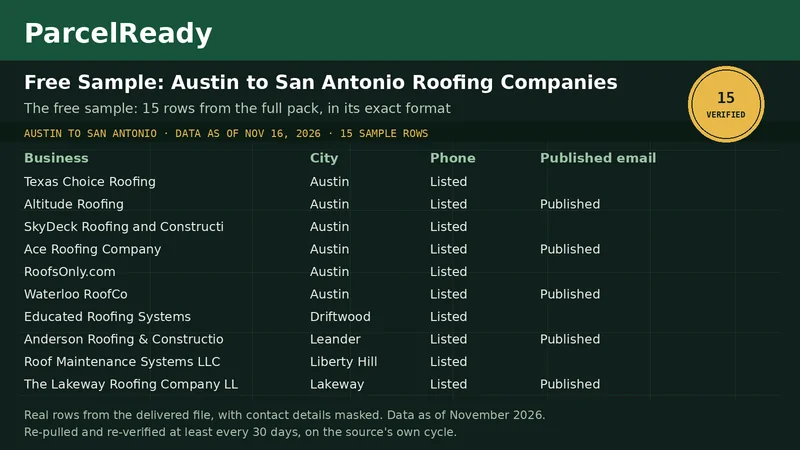
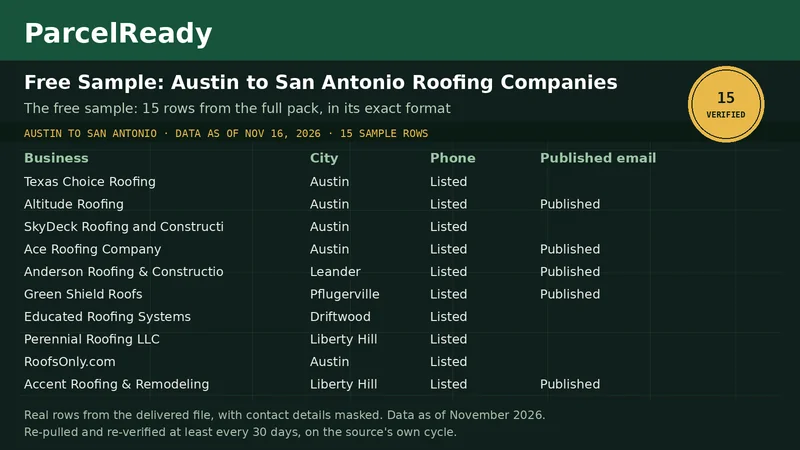
A2 draw brought inside Relay's named tolerance: review count joins the stratification fields and a first-5 window ordering pass enforces the window test; all three trade draws pass every lead field in the whole draw and the first-5 window

diff --git a/packs/houston-hvac.html b/packs/houston-hvac.html
@@ -50,7 +50,7 @@
       
       <div class="mini-preview">
         <p class="mini-head"><span>Live preview · first 5 rows</span><span>15 preview rows in all</span></p>
-        <table><thead><tr><th>Business name</th><th>City</th><th>Phone</th><th>Published email</th></tr></thead><tbody><tr><td>Vanguard Air Conditioning Hub</td><td>Baytown</td><td>Listed</td><td></td></tr><tr><td>Air Integrity HVAC</td><td>Deer Park</td><td>Listed</td><td></td></tr><tr><td>Mabry&#x27;s Air Conditioning and Heating</td><td>Alvin</td><td>Listed</td><td>Published</td></tr><tr><td>Davis Mechanical Contractors</td><td>Alvin</td><td>Listed</td><td></td></tr><tr><td>Marcos&#x27; AC &amp; Heating Services</td><td>Houston</td><td>Listed</td><td></td></tr></tbody></table>
+        <table><thead><tr><th>Business name</th><th>City</th><th>Phone</th><th>Published email</th></tr></thead><tbody><tr><td>Vanguard Air Conditioning Hub</td><td>Baytown</td><td>Listed</td><td></td></tr><tr><td>Brico Air Conditioning Repair Services</td><td>Deer Park</td><td>Listed</td><td></td></tr><tr><td>Mabry&#x27;s Air Conditioning and Heating</td><td>Alvin</td><td>Listed</td><td>Published</td></tr><tr><td>Davis Mechanical Contractors</td><td>Alvin</td><td>Listed</td><td></td></tr><tr><td>T &amp; S Comfort Specialist</td><td>Cypress</td><td>Listed</td><td></td></tr></tbody></table>
         <p class="mini-foot">Real rows from this pack, contact details masked on screen. <a href="#sample">See the full preview below</a>; the delivered sample carries every field.</p>
       </div>
     </div>

diff --git a/packs/austin-sa-roofing.html b/packs/austin-sa-roofing.html
@@ -50,7 +50,7 @@
       
       <div class="mini-preview">
         <p class="mini-head"><span>Live preview · first 5 rows</span><span>15 preview rows in all</span></p>
-        <table><thead><tr><th>Business name</th><th>City</th><th>Phone</th><th>Published email</th></tr></thead><tbody><tr><td>Texas Choice Roofing</td><td>Austin</td><td>Listed</td><td></td></tr><tr><td>Altitude Roofing</td><td>Austin</td><td>Listed</td><td>Published</td></tr><tr><td>SkyDeck Roofing and Construction</td><td>Austin</td><td>Listed</td><td></td></tr><tr><td>Ace Roofing Company</td><td>Austin</td><td>Listed</td><td>Published</td></tr><tr><td>RoofsOnly.com</td><td>Austin</td><td>Listed</td><td></td></tr></tbody></table>
+        <table><thead><tr><th>Business name</th><th>City</th><th>Phone</th><th>Published email</th></tr></thead><tbody><tr><td>Texas Choice Roofing</td><td>Austin</td><td>Listed</td><td></td></tr><tr><td>Altitude Roofing</td><td>Austin</td><td>Listed</td><td>Published</td></tr><tr><td>SkyDeck Roofing and Construction</td><td>Austin</td><td>Listed</td><td></td></tr><tr><td>Ace Roofing Company</td><td>Austin</td><td>Listed</td><td>Published</td></tr><tr><td>Anderson Roofing &amp; Construction</td><td>Leander</td><td>Listed</td><td>Published</td></tr></tbody></table>
         <p class="mini-foot">Real rows from this pack, contact details masked on screen. <a href="#sample">See the full preview below</a>; the delivered sample carries every field.</p>
       </div>
     </div>

diff --git a/build.py b/build.py
@@ -211,13 +211,47 @@ def _stratified_pick(rows, n, fields):
     return _interleave(a, b)
 
 
+LEAD_FIELDS = ["Published email", "Phone", "Rating", "Review count"]
+
+
+def _window_fix(draw, full):
+    """Relay's A2 window rule (Nov 24, 2026): the first 5 rows of the
+    preview are tested as their own window (tolerance the larger of
+    10 points or one row's weight there, 20 points). If a lead field
+    misses in the window, swap the earliest window row lacking the
+    field with the nearest later draw row carrying it. Swaps change
+    only order, never the draw's own rates. Bounded and checked
+    after every swap; deterministic."""
+    def rate(rs, f):
+        return 100.0 * sum(1 for r in rs if (r.get(f) or "").strip()) / len(rs) if rs else 0.0
+    tol = max(10.0, 100.0 / 5)
+    for _ in range(10):
+        bad = None
+        for f in LEAD_FIELDS:
+            if abs(rate(draw[:5], f) - rate(full, f)) > tol:
+                bad = f
+                break
+        if bad is None:
+            return draw
+        swap_in = next((i for i in range(5, len(draw)) if (draw[i].get(bad) or "").strip()), None)
+        swap_out = next((i for i in range(4, -1, -1) if not (draw[i].get(bad) or "").strip()), None)
+        if swap_in is None or swap_out is None:
+            return draw
+        draw[swap_out], draw[swap_in] = draw[swap_in], draw[swap_out]
+    return draw
+
+
 def representative_draw(rows, target):
     """A2 (HQ ruling, Nov 24, 2026, on Relay's fill-rate facts): a
     trade sample whose lead-field fill rates match the full file's
-    true rates as closely as the sample size allows. Deterministic,
+    true rates as closely as the sample size allows, in the whole
+    draw and in the first-5 window, under Relay's named tolerance
+    (the larger of 10 points or one row's weight). Deterministic,
     so builds are reproducible and Relay's representativeness check
     can re-derive the same draw."""
-    return _stratified_pick(rows, target, ["Published email", "Rating", "Website"])
+    draw = _stratified_pick(rows, target,
+                            ["Published email", "Rating", "Review count", "Website"])
+    return _window_fix(draw, rows)
 
 
 def write_sample_json():
@@ -247,7 +281,9 @@ def write_sample_json():
             print(f"A2 DRAW {p['id']}: email file {_rate(all_rows, 'Published email'):.1f}% "
                   f"sample {_rate(delivered, 'Published email'):.1f}% | "
                   f"rating file {_rate(all_rows, 'Rating'):.1f}% sample {_rate(delivered, 'Rating'):.1f}% | "
-                  f"website file {_rate(all_rows, 'Website'):.1f}% sample {_rate(delivered, 'Website'):.1f}%")
+                  f"reviews file {_rate(all_rows, 'Review count'):.1f}% sample {_rate(delivered, 'Review count'):.1f}% | "
+                  f"first5 email {_rate(delivered[:5], 'Published email'):.1f}% rating {_rate(delivered[:5], 'Rating'):.1f}% "
+                  f"reviews {_rate(delivered[:5], 'Review count'):.1f}%")
         else:
             dstep = max(1, len(all_rows) // target)
             delivered = all_rows[::dstep][:target]
